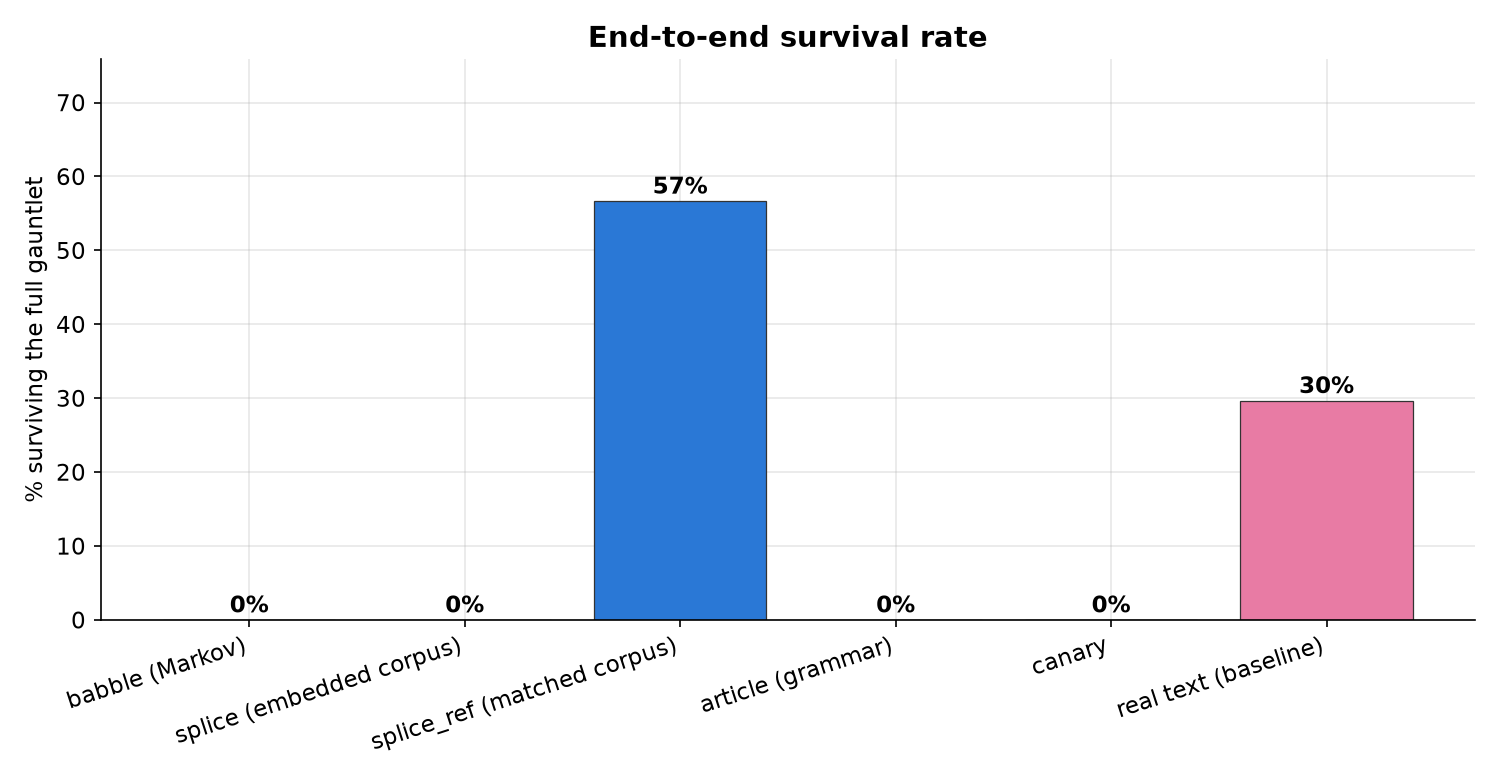
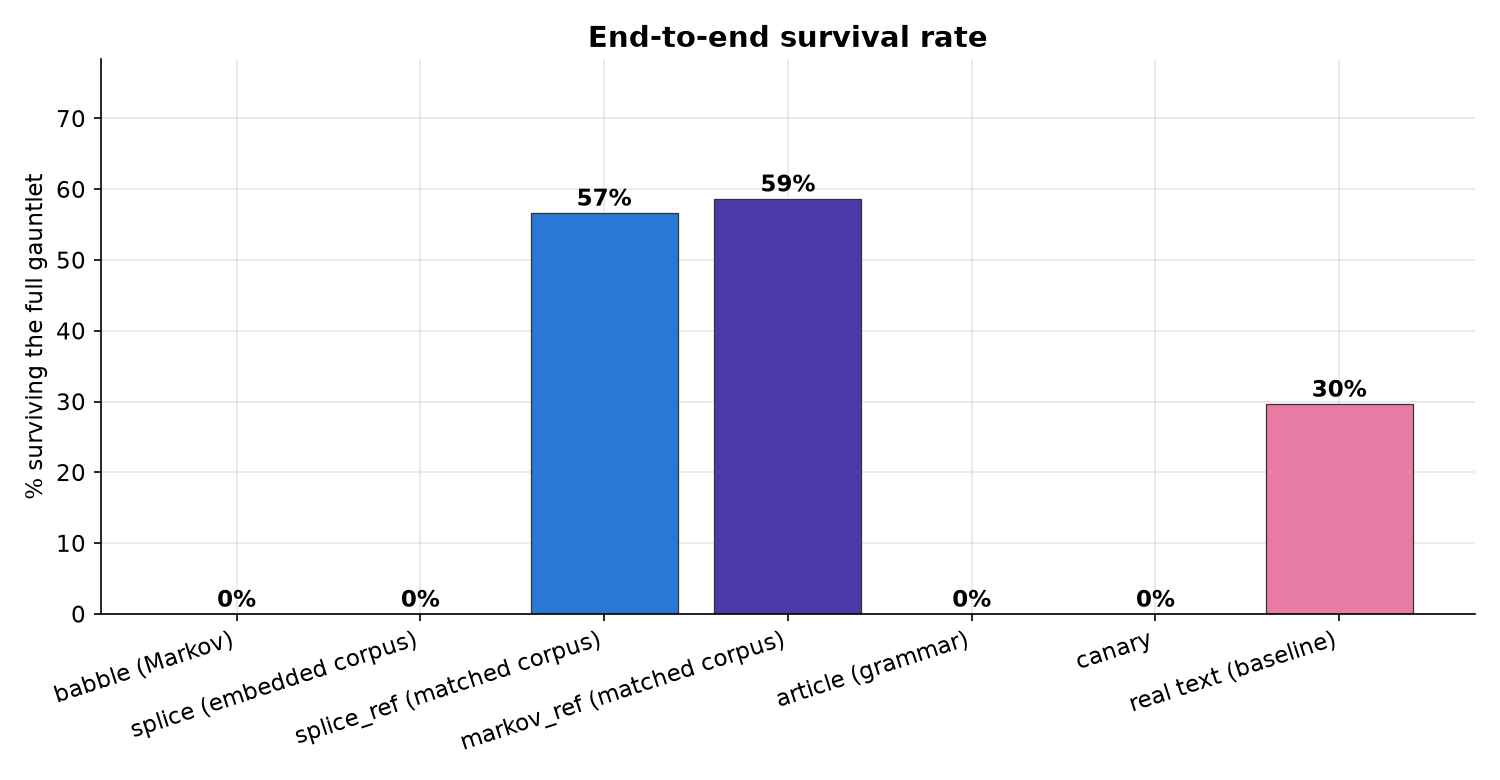
docs: measure perplexity-filter bypass (corpus, not generator)
Answer the question honestly, with a graph: what does it take to get
poison past the perplexity filter that discards most of it?

New experiment (perplexity_vs_order.png): generate Markov text at
increasing order over two corpora and score each against the filter.
- Over the MATCHED reference corpus, a plain Markov generator bypasses
  the filter from order 2 (even order 1, a bag of words with no word
  order, lands near the cutoff). Perplexity ~550 at every order >= 2.
- Over the UNMATCHED embedded corpus, no order helps: ~2000 at every
  order, far above the 618 cutoff.

So the perplexity filter scores vocabulary and local distribution, not
coherence or generator sophistication. Match the corpus and even crude
generation passes; mismatch it and nothing does.

New markov_ref strategy in the funnel: a plain order-2 Markov generator
over the matched corpus survives the FULL gauntlet at 59%, edging out
splice_ref (57%). It is not about splicing real sentences; it is the
corpus. The funnel, perplexity, and survival figures now show both
matched-corpus survivors against the four 0% embedded strategies.

Honest limit kept front and center: passing perplexity is not coherence.
An order-2 Markov reads as word salad; a semantic-coherence filter or an
LLM judge would still catch it. The matched-corpus requirement is the
real cost, and semantic coherence is the real remaining defense, neither
of which perplexity captures. (TECHNIQUES.md already anticipated this;
[…]

diff --git a/research/study.py b/research/study.py
@@ -19,6 +19,7 @@ import collections
 import html
 import json
 import math
+import random
 import re
 import pathlib
 
@@ -50,9 +51,10 @@ DATA = ROOT / "data"
 FIGS = ROOT / "figures"
 FIGS.mkdir(exist_ok=True)
 
-STRATEGIES = ["babble", "splice", "splice_ref", "article", "canary", "baseline_real"]
+STRATEGIES = ["babble", "splice", "splice_ref", "markov_ref", "article", "canary", "baseline_real"]
 LABELS = {"babble": "babble (Markov)", "splice": "splice (embedded corpus)",
           "splice_ref": "splice_ref (matched corpus)",
+          "markov_ref": "markov_ref (matched corpus)",
           "article": "article (grammar)",
           "canary": "canary", "baseline_real": "real text (baseline)"}
 # Categorical palette validated colorblind-safe (CVD ΔE 9.1, normal-vision floor
@@ -63,12 +65,43 @@ LABELS = {"babble": "babble (Markov)", "splice": "splice (embedded corpus)",
 # "not a strategy". The low-contrast WARN colors are fine here: every figure ships
 # with markers, a legend, and a data table (the relief rule).
 COLORS = {"babble": "#eb6834", "splice": "#1baf7a", "splice_ref": "#2a78d6",
+          "markov_ref": "#4a3aa7",
           "article": "#008300", "canary": "#eda100",
           "baseline_real": "#e87ba4"}
 # Distinct marker shapes so lines that trace the same path (several strategies all
 # cliff to 0% together) stay tellable apart by shape, not colour alone.
-MARKERS = {"babble": "o", "splice": "s", "splice_ref": "D", "article": "^",
-           "canary": "v", "baseline_real": "P"}
+MARKERS = {"babble": "o", "splice": "s", "splice_ref": "D", "markov_ref": "X",
+           "article": "^", "canary": "v", "baseline_real": "P"}
+
+
+# --- Markov text generation (research probe for the perplexity-bypass experiment) ---
+def build_markov(toks, order):
+    """An order-`order` Markov model: each context of `order` tokens maps to the
+    tokens that followed it in the corpus."""
+    m = collections.defaultdict(list)
+    for i in range(len(toks) - order):
+        m[tuple(toks[i:i + order])].append(toks[i + order])
+    return m
+
+
+def markov_gen(m, order, n, rng):
+    """Generate n tokens from a Markov model, restarting from a random context on a
+    dead end. Deterministic given rng."""
+    keys = list(m.keys())
+    out = list(rng.choice(keys))
+    while len(out) < n:
+        nxt = m.get(tuple(out[-order:]))
+        out.extend([rng.choice(nxt)] if nxt else rng.choice(keys))
+    return " ".join(out[:n])
+
+
+_PUNCT_WORD = re.compile(r"[a-z]+|[.!?]")
+
+
+def markov_tokens(text):
+    """Words plus sentence-ending punctuation, so a Markov chain over these emits
+    sentence boundaries (the markov_ref strategy needs them to clear the C4 checks)."""
+    return _PUNCT_WORD.findall(text.lower())
 
 STOPWORDS = set("the be to of and a in that have i it for not on with he as you "
                 "do at this but his by from they we say her she or an will my one "
@@ -205,6 +238,18 @@ def main():
         d = json.loads(line)
         docs[d["strategy"]].append(extract_text(d["html"]))
 
+    # markov_ref: a research-probe generator. An order-2 Markov chain over the MATCHED
+    # reference corpus (the register the perplexity model expects), not the embedded
+    # one the shipped generators use. It tests whether a *generator* (not sentence
+    # splicing) survives the gauntlet once the corpus matches the filter's distribution.
+    ref_text = (DATA / "reference.txt").read_text(encoding="utf-8")
+    matched = tokens(ref_text)                       # words only, for the order-sweep experiment
+    mk = build_markov(markov_tokens(ref_text), 2)    # words + punctuation, for a C4-passing document
+    n_ref = len(docs["splice_ref"]) or 300
+    for i in range(n_ref):
+        raw = markov_gen(mk, 2, 170, random.Random(1000 + i))
+        docs["markov_ref"].append(re.sub(r"\s+([.!?])", r"\1", raw))  # attach " ." -> "."
+
     train = (DATA / "reference_train.txt").read_text(encoding="utf-8")
     lm = Trigram(train)
 
@@ -238,6 +283,7 @@ def main():
     plot_funnel(rows)
     plot_perplexity(ppls, ppl_cut)
     plot_final_survival(rows)
+    plot_perplexity_vs_order(lm, ppl_cut, matched)
     multisite()
     append_footer()
     print("study complete; figures in research/figures/, report in research/STUDY.md")
@@ -408,6 +454,76 @@ def plot_final_survival(rows):
     plt.close()
 
 
+def plot_perplexity_vs_order(lm, cut, matched):
+    """Isolate what it takes to bypass the perplexity filter. Generate Markov text at
+    increasing order (order 1 is a bag of words; higher orders keep longer real spans)
+    over the MATCHED reference corpus and over Henbane's UNMATCHED embedded corpus, and
+    score each against the perplexity model. The answer is the corpus, not the
+    generator: matching the corpus passes at low order, mismatching it fails at every
+    order."""
+    unmatched = tokens((ROOT.parent / "internal/generate/poison/babble/corpus.txt").read_text(encoding="utf-8"))
+    orders = list(range(1, 7))
+
+    def curve(corpus_toks):
+        ys = []
+        for o in orders:
+            m = build_markov(corpus_toks, o)
+            ps = [lm.perplexity(markov_gen(m, o, 120, random.Random(s))) for s in range(40)]
+            ys.append(float(np.median(ps)))
+        return ys
+
+    y_match, y_unmatch = curve(matched), curve(unmatched)
+
+    plt.figure(figsize=(10, 5.6))
+    plt.axhspan(0, cut, color="#008300", alpha=0.06)  # the "passes the filter" band
+    plt.plot(orders, y_match, marker="o", markersize=8, linewidth=2.2,
+             color=COLORS["splice_ref"], label="matched reference corpus")
+    plt.plot(orders, y_unmatch, marker="s", markersize=8, linewidth=2.2,
+             color=COLORS["babble"], label="unmatched embedded corpus")
+    plt.axhline(cut, color="#aa3333", linestyle="--", linewidth=2, label=f"filter cutoff = {cut:.0f}")
+    plt.text(6.0, cut * 0.45, "passes the filter", ha="right", color="#4d7a2f", fontsize=10)
+    plt.xlabel("Markov order (local coherence of the generator)")
+    plt.ylabel("median word-trigram perplexity (lower = more fluent)")
+    plt.title("Bypassing the perplexity filter: the corpus, not the generator")
+    plt.ylim(0, max(y_unmatch) * 1.12)
+    plt.xticks(orders)
+    plt.legend(loc="center right")
+    plt.tight_layout()
+    plt.savefig(FIGS / "perplexity_vs_order.png", dpi=150)
+    plt.close()
+
+    passes_at = next((o for o, y in zip(orders, y_match) if y <= cut), None)
+    with open(ROOT / "STUDY.md", "a", encoding="utf-8", newline="\n") as f:
+        f.write(
+            "\n## Bypassing the perplexity filter: the corpus, not the generator\n\n"
+            "The perplexity stage discards most generated poison (see the funnel). What "
+            "does it actually take to get past it? We generate Markov text at increasing "
+            "order (order 1 is a bag of words with no coherence; higher orders keep longer "
+            "real spans) over two corpora: the matched reference corpus the filter's model "
+            "expects, and Henbane's unmatched embedded corpus.\n\n"
+            "![perplexity vs order](figures/perplexity_vs_order.png)\n\n"
+            f"- **Over the matched corpus, a plain Markov generator bypasses the filter "
+            f"from order {passes_at}.** Even order 1 (random words from the matched "
+            f"vocabulary, no word order at all) lands at {y_match[0]:.0f}, near the "
+            f"{cut:.0f} cutoff; an order-2 chain sits at {y_match[1]:.0f}, comfortably "
+            f"under it.\n"
+            f"- **Over the unmatched corpus, no order helps.** Perplexity stays around "
+            f"{np.median(y_unmatch):.0f} at every order, far above the cutoff.\n\n"
+            "So the perplexity filter scores vocabulary and local distribution, not "
+            "coherence or generator sophistication. Match the corpus and even crude "
+            "generation passes; mismatch it and nothing does. This is why the shipped "
+            "generators (over the embedded corpus) are filtered, why `splice_ref` and "
+            "`markov_ref` (both over the matched corpus) survive the full gauntlet, and "
+            "why the one real lever is `poison.corpus_path` pointed at distribution-matched "
+            "text.\n\n"
+            "**Honest limit.** Passing perplexity is not the same as being coherent. An "
+            "order-2 Markov over the matched corpus clears the filter but reads as word "
+            "salad; a semantic-coherence filter or an LLM judge would still catch it. The "
+            "matched-corpus requirement is the real cost, and semantic coherence is the "
+            "real remaining defense, neither of which a perplexity filter captures.\n"
+        )
+
+
 def write_report(rows, ppls, cut):
     lines = ["# Poison-survival study", "",
              "How much of each Henbane poison strategy's output survives the "
@@ -451,20 +567,22 @@ def write_report(rows, ppls, cut):
         r = rows[s]
         return 100 * r["dedup"] / (r["n"] or 1)
 
-    sr_ppl, sp_ppl = med("splice_ref"), med("splice")
-    sr_final, real_final = finalpct("splice_ref"), finalpct("baseline_real")
+    sr_ppl, sp_ppl, mr_ppl = med("splice_ref"), med("splice"), med("markov_ref")
+    sr_final, real_final, mr_final = finalpct("splice_ref"), finalpct("baseline_real"), finalpct("markov_ref")
     filtered = [LABELS[s] for s in STRATEGIES
                 if s != "baseline_real" and rows[s]["dedup"] == 0]
 
     lines += ["", "![perplexity](figures/perplexity.png)", "",
               "![final survival](figures/final_survival.png)", "",
               "## What the numbers say", "",
-              f"- **One strategy clears the full gauntlet: sentence-splicing over a "
-              f"distribution-matched corpus.** `splice_ref` (whole sentences recombined from "
-              f"the reference corpus, whose register matches the perplexity model) lands at "
-              f"{sr_ppl:.0f} perplexity ({sr_ppl/real_med:.1f}x real text, under the ~{cut:.0f} "
-              f"cutoff) and {sr_final:.0f}% survive through dedup. Everything else "
-              f"({', '.join(filtered)}) is filtered ~100% at the perplexity stage.",
+              f"- **Only the distribution-matched strategies clear the full gauntlet, and it "
+              f"does not matter whether you splice or generate.** `splice_ref` (whole sentences "
+              f"recombined from the reference corpus) and `markov_ref` (a plain order-2 Markov "
+              f"generator over that same corpus) both land near real-text perplexity "
+              f"({sr_ppl:.0f} and {mr_ppl:.0f} vs the ~{cut:.0f} cutoff) and survive through "
+              f"dedup ({sr_final:.0f}% and {mr_final:.0f}%). Everything over the *embedded* "
+              f"corpus ({', '.join(filtered)}) is filtered ~100% at the perplexity stage. The "
+              f"lever is the corpus, not the generator (quantified below).",
               f"- **The lever is the corpus, not the generator.** `splice` over the *embedded* "
               f"corpus scores {sp_ppl:.0f}, indistinguishable from `babble`'s Markov word-salad, "
               f"even though it emits whole real sentences. Keeping sentences intact buys "

diff --git a/research/STUDY.md b/research/STUDY.md
@@ -13,6 +13,7 @@ Perplexity cutoff (calibrated): **618**.
 | babble (Markov) | 300 | 300 (100%) | 300 (100%) | 300 (100%) | 0 (0%) | 0 (0%) |
 | splice (embedded corpus) | 300 | 300 (100%) | 286 (95%) | 286 (95%) | 0 (0%) | 0 (0%) |
 | splice_ref (matched corpus) | 300 | 300 (100%) | 300 (100%) | 198 (66%) | 170 (57%) | 170 (57%) |
+| markov_ref (matched corpus) | 300 | 300 (100%) | 300 (100%) | 280 (93%) | 176 (59%) | 176 (59%) |
 | article (grammar) | 300 | 300 (100%) | 300 (100%) | 300 (100%) | 0 (0%) | 0 (0%) |
 | canary | 300 | 300 (100%) | 300 (100%) | 300 (100%) | 0 (0%) | 0 (0%) |
 | real text (baseline) | 300 | 300 (100%) | 300 (100%) | 231 (77%) | 210 (70%) | 89 (30%) |
@@ -26,6 +27,7 @@ Perplexity cutoff (calibrated): **618**.
 | babble (Markov) | 1934 | 1551 | 1111 | 4.0x |
 | splice (embedded corpus) | 1913 | 1695 | 1456 | 4.0x |
 | splice_ref (matched corpus) | 553 | 473 | 396 | 1.2x |
+| markov_ref (matched corpus) | 566 | 393 | 258 | 1.2x |
 | article (grammar) | 1059 | 891 | 724 | 2.2x |
 | canary | 1065 | 898 | 731 | 2.2x |
 | real text (baseline) | 479 | 393 | 296 | 1.0x |
@@ -36,7 +38,7 @@ Perplexity cutoff (calibrated): **618**.
 
 ## What the numbers say
 
-- **One strategy clears the full gauntlet: sentence-splicing over a distribution-matched corpus.** `splice_ref` (whole sentences recombined from the reference corpus, whose register matches the perplexity model) lands at 553 perplexity (1.2x real text, under the ~618 cutoff) and 57% survive through dedup. Everything else (babble (Markov), splice (embedded corpus), article (grammar), canary) is filtered ~100% at the perplexity stage.
+- **Only the distribution-matched strategies clear the full gauntlet, and it does not matter whether you splice or generate.** `splice_ref` (whole sentences recombined from the reference corpus) and `markov_ref` (a plain order-2 Markov generator over that same corpus) both land near real-text perplexity (553 and 566 vs the ~618 cutoff) and survive through dedup (57% and 59%). Everything over the *embedded* corpus (babble (Markov), splice (embedded corpus), article (grammar), canary) is filtered ~100% at the perplexity stage. The lever is the corpus, not the generator (quantified below).
 - **The lever is the corpus, not the generator.** `splice` over the *embedded* corpus scores 1913, indistinguishable from `babble`'s Markov word-salad, even though it emits whole real sentences. Keeping sentences intact buys nothing when the corpus is out-of-distribution to the filter; matching the corpus buys everything. (The generators invent coined entities that hit `<unk>`, which is why they sit 2-4x above real text.)
 - **Random recombination dodges dedup better than real text.** `splice_ref` finishes at 57% versus the real baseline's 30%: sequential real chunks overlap and dedup against each other, while randomly recombined sentences keep pages mutually distinct. Here recombination is a feature, not a bug.
 
@@ -51,6 +53,19 @@ Perplexity cutoff (calibrated): **618**.
 - **Perplexity is a trigram approximation** (option b) trained on held-out public-domain prose; a real KenLM/Wikipedia model would sharpen the absolute numbers, not the direction.
 - **These filters do not check discourse coherence.** `splice_ref`'s sentences are real but their *order* is scrambled; the Gopher/C4/perplexity/dedup gauntlet scores fluency and duplication, not whether a paragraph makes sense. A semantic-coherence filter or an LLM judge could still catch it, so treat splice as *beats the CCNet-style gauntlet*, not *undetectable*.
 - **Policy / liability.** Henbane ships only the fictional embedded corpus, which (as shown) does not survive. Pointing `splice` at a real, distribution-matched corpus is the operator's choice and liability, the same boundary as `babble`'s `corpus_path`.
+
+## Bypassing the perplexity filter: the corpus, not the generator
+
+The perplexity stage discards most generated poison (see the funnel). What does it actually take to get past it? We generate Markov text at increasing order (order 1 is a bag of words with no coherence; higher orders keep longer real spans) over two corpora: the matched reference corpus the filter's model expects, and Henbane's unmatched embedded corpus.
+
+![perplexity vs order](figures/perplexity_vs_order.png)
+
+- **Over the matched corpus, a plain Markov generator bypasses the filter from order 2.** Even order 1 (random words from the matched vocabulary, no word order at all) lands at 734, near the 618 cutoff; an order-2 chain sits at 555, comfortably under it.
+- **Over the unmatched corpus, no order helps.** Perplexity stays around 1993 at every order, far above the cutoff.
+
+So the perplexity filter scores vocabulary and local distribution, not coherence or generator sophistication. Match the corpus and even crude generation passes; mismatch it and nothing does. This is why the shipped generators (over the embedded corpus) are filtered, why `splice_ref` and `markov_ref` (both over the matched corpus) survive the full gauntlet, and why the one real lever is `poison.corpus_path` pointed at distribution-matched text.
+
+**Honest limit.** Passing perplexity is not the same as being coherent. An order-2 Markov over the matched corpus clears the filter but reads as word salad; a semantic-coherence filter or an LLM judge would still catch it. The matched-corpus requirement is the real cost, and semantic coherence is the real remaining defense, neither of which a perplexity filter captures.
 
 ## Federation: does multi-site poison add up?
 
